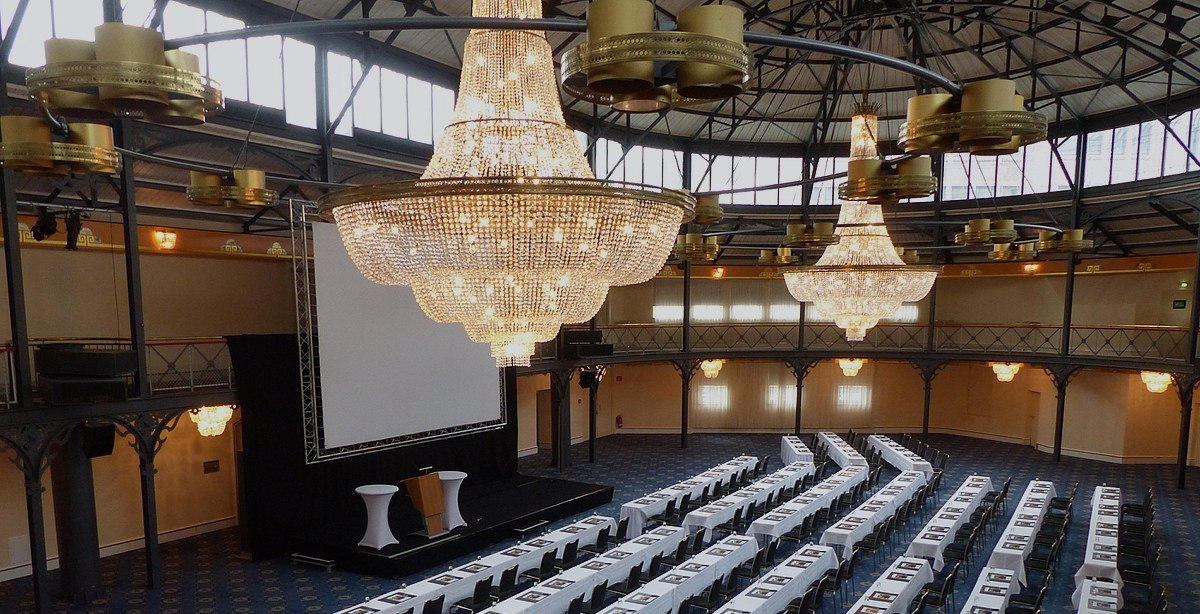
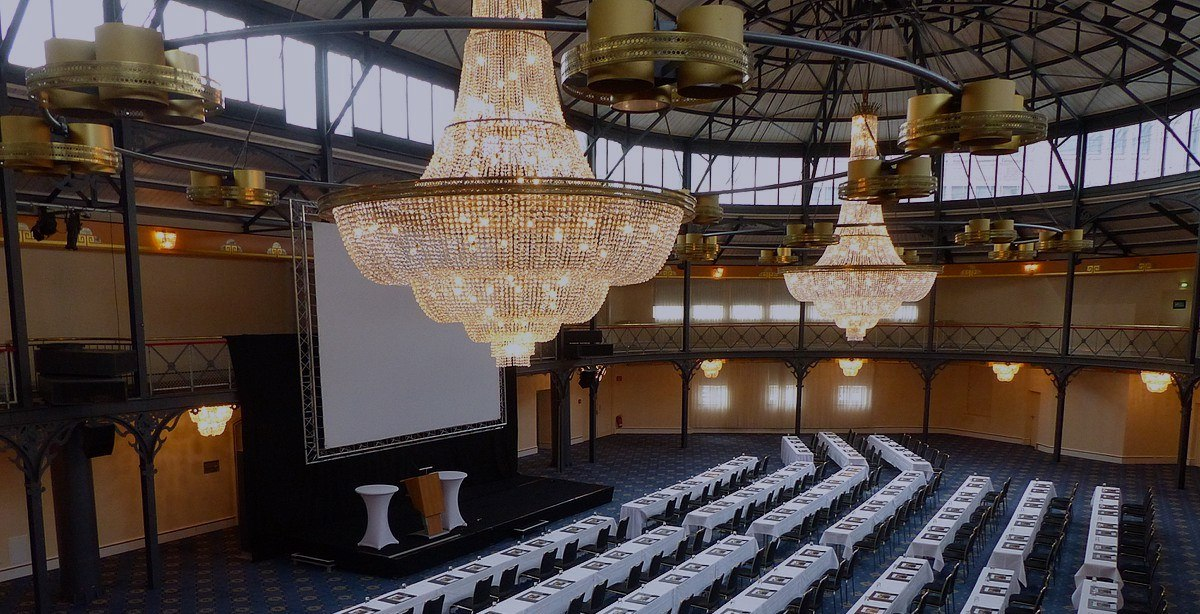
Update design of pages

diff --git a/resources/views/find-homezone.antlers.html b/resources/views/find-homezone.antlers.html
@@ -1,29 +1,33 @@
 <main class="pb-4" style="background-color: #F0F0F0">
-    <div class="bg-orange-200 border-b border-orange-300 px-4 py-8">
+    <div class="bg-blue-100 border-b border-blue-200 px-4 py-8">
         <div class="flex max-w-3xl mx-auto sm:py-10">
         <div class="">
             <h1 class="font-serif text-3xl font-bold leading-tight sm:my-8">Wie kann ich Teil einer Kleingruppe werden?</h1>
-            <picture class="">
-                <source type="image/webp" srcset="{{ glide src='/assets/main/images/homezones2.jpg' h='500' w='680' q='80' fm='webp' }} 680w, {{ glide src='/assets/main/images/homezones2.jpg' h='250' w='340' q='80' fm='webp' }} 340w" sizes="100%"/>
-                <source type="image/jpg" srcset="{{ glide src='/assets/main/images/homezones2.jpg' h='500' w='680' q='80' }} 680w, {{ glide src='/assets/main/images/homezones2.jpg' h='250' w='340' q='80' }} 340w" sizes="100%"/>
-                <img class=" sm:hidden -ml-1 -mr-1 my-5" src="{{ glide src='/assets/main/images/homezones2.jpg' h='250' w='340' q='80'}}"/>
-            </picture>
+            <div class="relative">
+                <div class="h-full w-full top absolute -mx-1" style="background: linear-gradient(120deg, rgba(80,190,255,0.12), rgba(20,0,200,0.12))"></div>
+                <picture class="">
+                    <source type="image/webp" srcset="{{ glide src='/assets/main/images/homezones2.jpg' h='500' w='680' q='80' fm='webp' }} 680w, {{ glide src='/assets/main/images/homezones2.jpg' h='250' w='340' q='80' fm='webp' }} 340w" sizes="100%"/>
+                    <source type="image/jpg" srcset="{{ glide src='/assets/main/images/homezones2.jpg' h='500' w='680' q='80' }} 680w, {{ glide src='/assets/main/images/homezones2.jpg' h='250' w='340' q='80' }} 340w" sizes="100%"/>
+                    <img height="250" class=" sm:hidden -mx-1 my-5" src="{{ glide src='/assets/main/images/homezones2.jpg' h='250' w='340' q='80'}}"/>
+                </picture>
+            </div>
             <div class="flex flex-col font-medium text-lg leading-loose md:ml-4">
                 <div class="flex flex-row my-2 items-center">
-                    <span class="h-10 w-10 rounded-full bg-orange-400 text-center leading-relaxed text-2xl mr-3 desaturate-1/3">1</span>
+                    <span class="h-10 w-10 rounded-full font-serif bg-blue-300 text-center leading-tight pt-px text-2xl mr-3 desaturate-1/3">1</span>
                     Such dir eine Homezone aus
                 </div>
                 <div class="flex flex-row my-2 items-center">
-                    <span class="h-10 w-10 rounded-full bg-orange-400 text-center leading-relaxed text-2xl mr-3 desaturate-1/3">2</span>
+                    <span class="h-10 w-10 rounded-full font-serif bg-blue-300 text-center leading-tight pt-px text-2xl mr-3 desaturate-1/3">2</span>
                     Melde dich an
                 </div>
                 <div class="flex flex-row my-2 items-center">
-                    <span class="h-10 w-10 rounded-full bg-orange-400 text-center leading-relaxed text-2xl mr-3 desaturate-1/3">3</span>
+                    <span class="h-10 w-10 rounded-full font-serif bg-blue-300 text-center leading-tight pt-px text-2xl mr-3 desaturate-1/3">3</span>
                     Komm vorbei
                  </div>
             </div>
         </div>
-        <div class="hidden sm:inline-block min-w-xs">
+        <div class="hidden sm:inline-block min-w-xs relative" >
+            <div class="h-full w-full top absolute" style="background: linear-gradient(120deg, rgba(80,190,255,0.16), rgba(20,0,200,0.16))"></div>
              <picture>
                     <source type="image/webp" srcset="{{ glide src='/assets/main/images/homezones2.jpg' h='740' w='680' q='80' fm='webp' }} 680w, {{ glide src='/assets/main/images/homezones2.jpg' h='370' w='340' q='80' fm='webp' }} 340w" sizes="100%"/>
                     <source type="image/jpg" srcset="{{ glide src='/assets/main/images/homezones2.jpg' h='740' w='680' q='80' }} 680w, {{ glide src='/assets/main/images/homezones2.jpg' h='370' w='340' q='80' }} 340w" sizes="100%"/>

diff --git a/resources/views/home.antlers.html b/resources/views/home.antlers.html
@@ -22,7 +22,7 @@
 </style>
 <section x-data="{loaded: false}" x-init="()=>loaded = true" x-ref="hero" x-on:scroll.window.passive="parallax($refs)"
     class="-mt-14 w-full bg-gray-800 bg-no-repeat bg-cover text-center flex flex-col pt-12 relative z-0"
-    style="height: 90vh; background-image: url({{header_image}}); background-position: 80% 30%;">
+    style="height: 90vh; background-image: linear-gradient(rgba(155, 105, 255, 0.17), rgba(0, 100, 255, 0.17)), url({{header_image}}); background-position: 80% 30%;">
     <div class="my-auto" x-ref="heroText" x-show="loaded" x-cloak
     x-transition:enter="transition ease-in-out duration-500"
     x-transition:enter-start="opacity-0 transform translate-y-10"
@@ -33,11 +33,15 @@
         <h1 class="mt-4 md:mt-2 font-sans text-base text-gray-100 text-shadow-lg w-5/6 mx-auto font-medium leading-tight">{{subtitle}}</h1>  
     </div>  
 </div>
-<a id="👋🏼" href="#👋🏼" class="tap-highlight-none focus:outline-none relative z-10 font-mono text-gray-300 text-shadow text-4xl font-hairline" style="transform: translateY(-5rem)">↓</a>
+<a id="👋🏼" href="#👋🏼" class="tap-highlight-none focus:outline-none relative z-10 font-mono text-gray-300 text-shadow mx-auto py-3" style="transform: translateY(-5rem)">
+  <svg class="h-5" xmlns="http://www.w3.org/2000/svg" fill="none" viewBox="0 0 24 24" stroke="currentColor">
+    <path stroke-linecap="square" stroke-linejoin="square" stroke-width="2.5" d="M19 14l-7 7m0 0l-7-7m7 7V3" />
+  </svg>
+</a>
 </section>
 
-<section class="bg-white relative z-10 -mb-16 h-36 flex flex-col justify-center" >
-      <div class="primary_card w-11/12 mx-auto bg-purple-100 rounded-px p-4 md:p-6 md:py-5 shadow-brand max-w-3xl transform -translate-y-16">
+<section class="bg-white relative z-10 -mb-16 h-36 flex flex-col justify-center">
+      <div class="primary_card w-11/12 mx-auto bg-neutral-400 bg-opacity-25 rounded-px text-indigo-900 p-4 md:p-6 md:py-5 max-w-3xl transform -translate-y-16">
         {{primary_card}}
         <style> 
           .primary_card a:after {

diff --git a/resources/views/partials/Layout/NavDesktop.antlers.html b/resources/views/partials/Layout/NavDesktop.antlers.html
@@ -1,6 +1,6 @@
-<header aria-hidden class="h-16 hidden md:block antialiased">
+<header aria-hidden class="h-16 hidden md:block antialiased shadow-sm">
 {{# Topbar#}}
-<div class="fixed z-50 bg-black  w-full shadow px-4">
+<div class="fixed z-50 bg-black  w-full px-4">
     <div class="flex justify-between items-center h-16 max-w-6xl mx-auto">
     <a href="/" class="text-white" aria-label="Home">
         {{ svg src="logo.svg" }}
@@ -22,10 +22,10 @@
                     </a>
                     {{ if children }}
                         <div class="absolute hidden group-hover:block shadow-lg -ml-3">
-                            <ul class="flex flex-col font-normal py-1 text-gray-500 bg-gray-100 shadow-xs rounded-b-sm text-base text-gray-900">
+                            <ul class="flex flex-col font-normal py-1 bg-gray-100 shadow-xs text-tip text-gray-900">
                             {{ children }}
-                                <li class="hover:bg-indigo-200 desaturate-1/3 text-lg hover:text-black font-medium {{ if is_current }} font-semibold bg-indigo-200 {{ /if }}">
-                                    <a class="px-4 py-1 block " href="{{ url }}">{{ title }}</a>
+                                <li class="hover:bg-gray-300 mx-1 rounded-px hover:text-black font-medium {{ if is_current }} font-semibold bg-indigo-200 hover:bg-indigo-200 desaturate-1/3 {{ /if }}">
+                                    <a class="px-3 py-1 block " href="{{ url }}">{{ title }}</a>
                                 </li>
                             {{ /children}}
                             </ul>

diff --git a/resources/css/site.css b/resources/css/site.css
@@ -9,8 +9,12 @@ main {position: relative;}
 /* p:empty { display: none; } */
 
 .rounded-px {border-radius: 1px}
+.rounded-b-px {border-radius: 0 0 1px 1px;}
 .shadow-brand { box-shadow: 0 1px 3px 0 rgba(56, 0, 102, 0.1), 0 1px 2px 0 rgba(56, 0, 102,.06); }
 .min-w-xs { min-width: 20rem; }
+.bg-neutral-400 {
+    background-color: #e7f1ff;
+}
 .bg-grad {
     background: #de6161;
     background: -webkit-linear-gradient(to left, #4c3dd6, #d14848);
@@ -28,10 +32,10 @@ main {position: relative;}
     background-color: rgba(200,200,200,var(--bg-opacity));
 }
 .bg-t-gray {
-    background: rgba(0, 0, 0, .095);
+    background: rgba(22, 12, 56, .11);
 }
 .hover\:bg-t-gray:hover {
-    background: rgba(0,0,0,.13)
+    background: rgba(22,12,56,.15)
 }
 .highlighter {
     background: linear-gradient(180deg, transparent 64%, rgba(129, 140, 197, 0.55) 65%);
@@ -44,7 +48,8 @@ main {position: relative;}
 .hover\:bg-opacity-35:hover {
   --bg-opacity: 0.35;
 }
-.text-md { font-size: 0.96rem; }      
+.text-md { font-size: 0.94rem; } 
+.text-tip { font-size: 1.08rem; }     
 .tracking-loose { letter-spacing: 0.0125rem; }
 
 .hyphens-auto { hyphens: auto; }
@@ -62,9 +67,9 @@ main {position: relative;}
 }
 
 .primary_card a {
-    @apply mb-2 mt-2 font-semibold inline-block leading-relaxed px-2 rounded-sm bg-t-gray;
+    @apply mb-2 mt-2 font-semibold inline-block leading-relaxed px-2 pb-1 rounded-sm bg-t-gray;
     &:hover {
-        background: rgba(0,0,0,.13);
+        background-color: rgba(22,12,56,.15);
     }
 }
 .bard {

diff --git a/content/collections/pages/livestream.md b/content/collections/pages/livestream.md
@@ -1,13 +1,15 @@
 ---
 title: 'Kirche im Wohnzimmer'
-header_image: images/livingroom.jpg
+header_image: images/livestream-tv.jpg
 parent: a92323c9-9033-4013-a5af-5f754218a74f
 updated_by: e79a8c77-cd3c-4c3e-b80d-41ca2e46cad2
-updated_at: 1608582545
+updated_at: 1611425644
 blueprint: default
 rich_content:
   -
-    type: paragraph
+    type: heading
+    attrs:
+      level: 2
     content:
       -
         type: text
@@ -20,61 +22,23 @@ rich_content:
     content:
       -
         type: text
-        text: 'Bis zum 3. Januar feiern wir gemeinsam als Mosaik Family Gottesdienst.'
-      -
-        type: hard_break
-      -
-        type: text
-        text: 'Den Livestream findest du auf dem '
-      -
-        type: text
-        marks:
-          -
-            type: link
-            attrs:
-              href: 'https://www.youtube.com/c/mosaikinfo'
-              target: _blank
-              rel: null
-        text: 'YouTube-Kanal der Mosaik Ulm'
-      -
-        type: text
-        text: .
-  -
-    type: paragraph
-  -
-    type: paragraph
-    content:
-      -
-        type: text
-        text: 'Neben unseren Gottesdiensten im Maritim Hotel feiern wir alle zwei Wochen Kirche im Wohnzimmer mit einem genialen Special: Unsere Predigtreihe Celebrate. Diese speziell auf den Livestream zugeschnittene Predigtreihe dreht sich um die jüdischen Feste des Volkes Israel. Gemeinsam wollen wir verstehen, welche Rolle sie damals spielten, wie sie gefeiert wurden, sich schlussendlich in Jesus erfüllen und welche Bedeutung sie dadurch auch noch für unser Leben haben.'
-      -
-        type: hard_break
-      -
-        type: hard_break
-  -
-    type: set
-    attrs:
-      values:
-        type: bild
-        image: images/Celebrate.jpg
-  -
-    type: paragraph
+        text: 'Neben unseren Gottesdiensten im Maritim Hotel feiern wir alle zwei Wochen Kirche im Wohnzimmer.'
   -
     type: paragraph
   -
     type: heading
     attrs:
-      level: 3
+      level: 4
     content:
       -
         type: text
-        text: 'How to celebrate'
+        text: 'Wie läuft der Gottesdienst von zuhause ab?'
   -
     type: paragraph
     content:
       -
         type: text
-        text: 'Lade ein paar Freunde ein, schnapp dir deine Bibel und erlebt zusammen eine geniale Zeit in Gottes Gegenwart! Euch erwartet eine starke Gebetszeit und eine relevante, ermutigende Message. Außerdem wird es immer 2-3 knackige Fragen zur Predigt geben, über die ihr euch austauschen könnt und die du in deine Woche mitnehmen darfst. '
+        text: 'Lade einen Freund ein, schnapp dir deine Bibel und erlebt zusammen eine geniale Zeit in Gottes Gegenwart! Euch erwartet eine starke Gebetszeit und eine relevante, ermutigende Message. Außerdem wird es immer 2-3 knackige Fragen zur Predigt geben, über die ihr euch austauschen könnt und die du in deine Woche mitnehmen darfst. '
   -
     type: paragraph
     content:

diff --git a/content/collections/pages/wohnungsmarkt.md b/content/collections/pages/wohnungsmarkt.md
@@ -6,9 +6,6 @@ rich_content:
       -
         type: text
         text: 'Du bist neu in Stuttgart und auf der Suche nach einer Wohnung? Du hast ein Zimmer in deiner WG frei und suchst die passende Mitbewohnerin oder den passenden Mitbewohner? Du würdest gerne deine Wohnung zwischenvermieten? Dann bist du hier genau richtig! Einmal im Monat werden wir auf unserem Wohnungsmarkt alle neuen Angebote und Anfragen veröffentlichen. Schreib uns einfach was du brauchst oder anzubieten hast und wir nehmen dich mit auf!'
-  -
-    type: paragraph
-    content:
       -
         type: hard_break
   -
@@ -27,11 +24,6 @@ rich_content:
               rel: null
         text: 'Ich suche eine Wohnung'
   -
-    type: paragraph
-    content:
-      -
-        type: hard_break
-  -
     type: heading
     attrs:
       level: '2'
@@ -46,11 +38,6 @@ rich_content:
               target: null
               rel: null
         text: 'Ich suche einen Mieter'
-  -
-    type: paragraph
-    content:
-      -
-        type: hard_break
   -
     type: heading
     attrs:
@@ -71,6 +58,7 @@ title: Wohnungsmarkt
 slug: wohnungsmarkt
 blueprint: default
 updated_by: e79a8c77-cd3c-4c3e-b80d-41ca2e46cad2
-updated_at: 1599517635
+updated_at: 1611427379
+hero: false
 id: 9c824f20-8bb8-42c3-818d-d3bf80bf3451
 ---

diff --git a/content/collections/pages/gottesdienst.md b/content/collections/pages/gottesdienst.md
@@ -5,7 +5,7 @@ rich_content:
     content:
       -
         type: text
-        text: 'Endlich ist es soweit, wir starten wieder mit Live Gottesdiensten! Alle zwei Wochen feiern wir zusammen im Maritim Hotel in Stuttgart Mitte und du bist herzlich eingeladen dabei zu sein! Los geht’s immer um '
+        text: 'Alle zwei Wochen feiern wir zusammen im Maritim Hotel in Stuttgart Mitte und du bist herzlich eingeladen dabei zu sein! Los geht’s immer um '
       -
         type: text
         marks:
@@ -143,8 +143,8 @@ template: default
 slug: gottesdienst
 blueprint: default
 updated_by: e79a8c77-cd3c-4c3e-b80d-41ca2e46cad2
-updated_at: 1610880786
+updated_at: 1611422872
 hero: false
-header_image: images/1200px-Tagungsbestuhlung-1601369275.jpg
+header_image: images/Maritim.jpg
 id: c6f67036-26e8-452c-8798-6b5bf5967cfb
 ---

diff --git a/content/collections/pages/predigten.md b/content/collections/pages/predigten.md
@@ -1,9 +1,12 @@
 ---
-header_image: images/77107465_2917212244978514_3828564084224163840_o.jpg
+header_image: images/IMG_0427.jpg
 title: Predigten
 mount: sermons
-id: ed8bf94f-f4a2-4099-a34d-9eb1077a8438
 slug: predigten
 blueprint: default
 template: podcasts/index
+hero: false
+updated_by: e79a8c77-cd3c-4c3e-b80d-41ca2e46cad2
+updated_at: 1611427778
+id: ed8bf94f-f4a2-4099-a34d-9eb1077a8438
 ---

diff --git a/content/collections/pages/home.md b/content/collections/pages/home.md
@@ -18,7 +18,7 @@ primary_card:
         type: hard_break
       -
         type: text
-        text: 'Aktuelle Infos findest du auf Instagram '
+        text: 'Aktuelle News findest du auf Instagram '
       -
         type: text
         marks:
